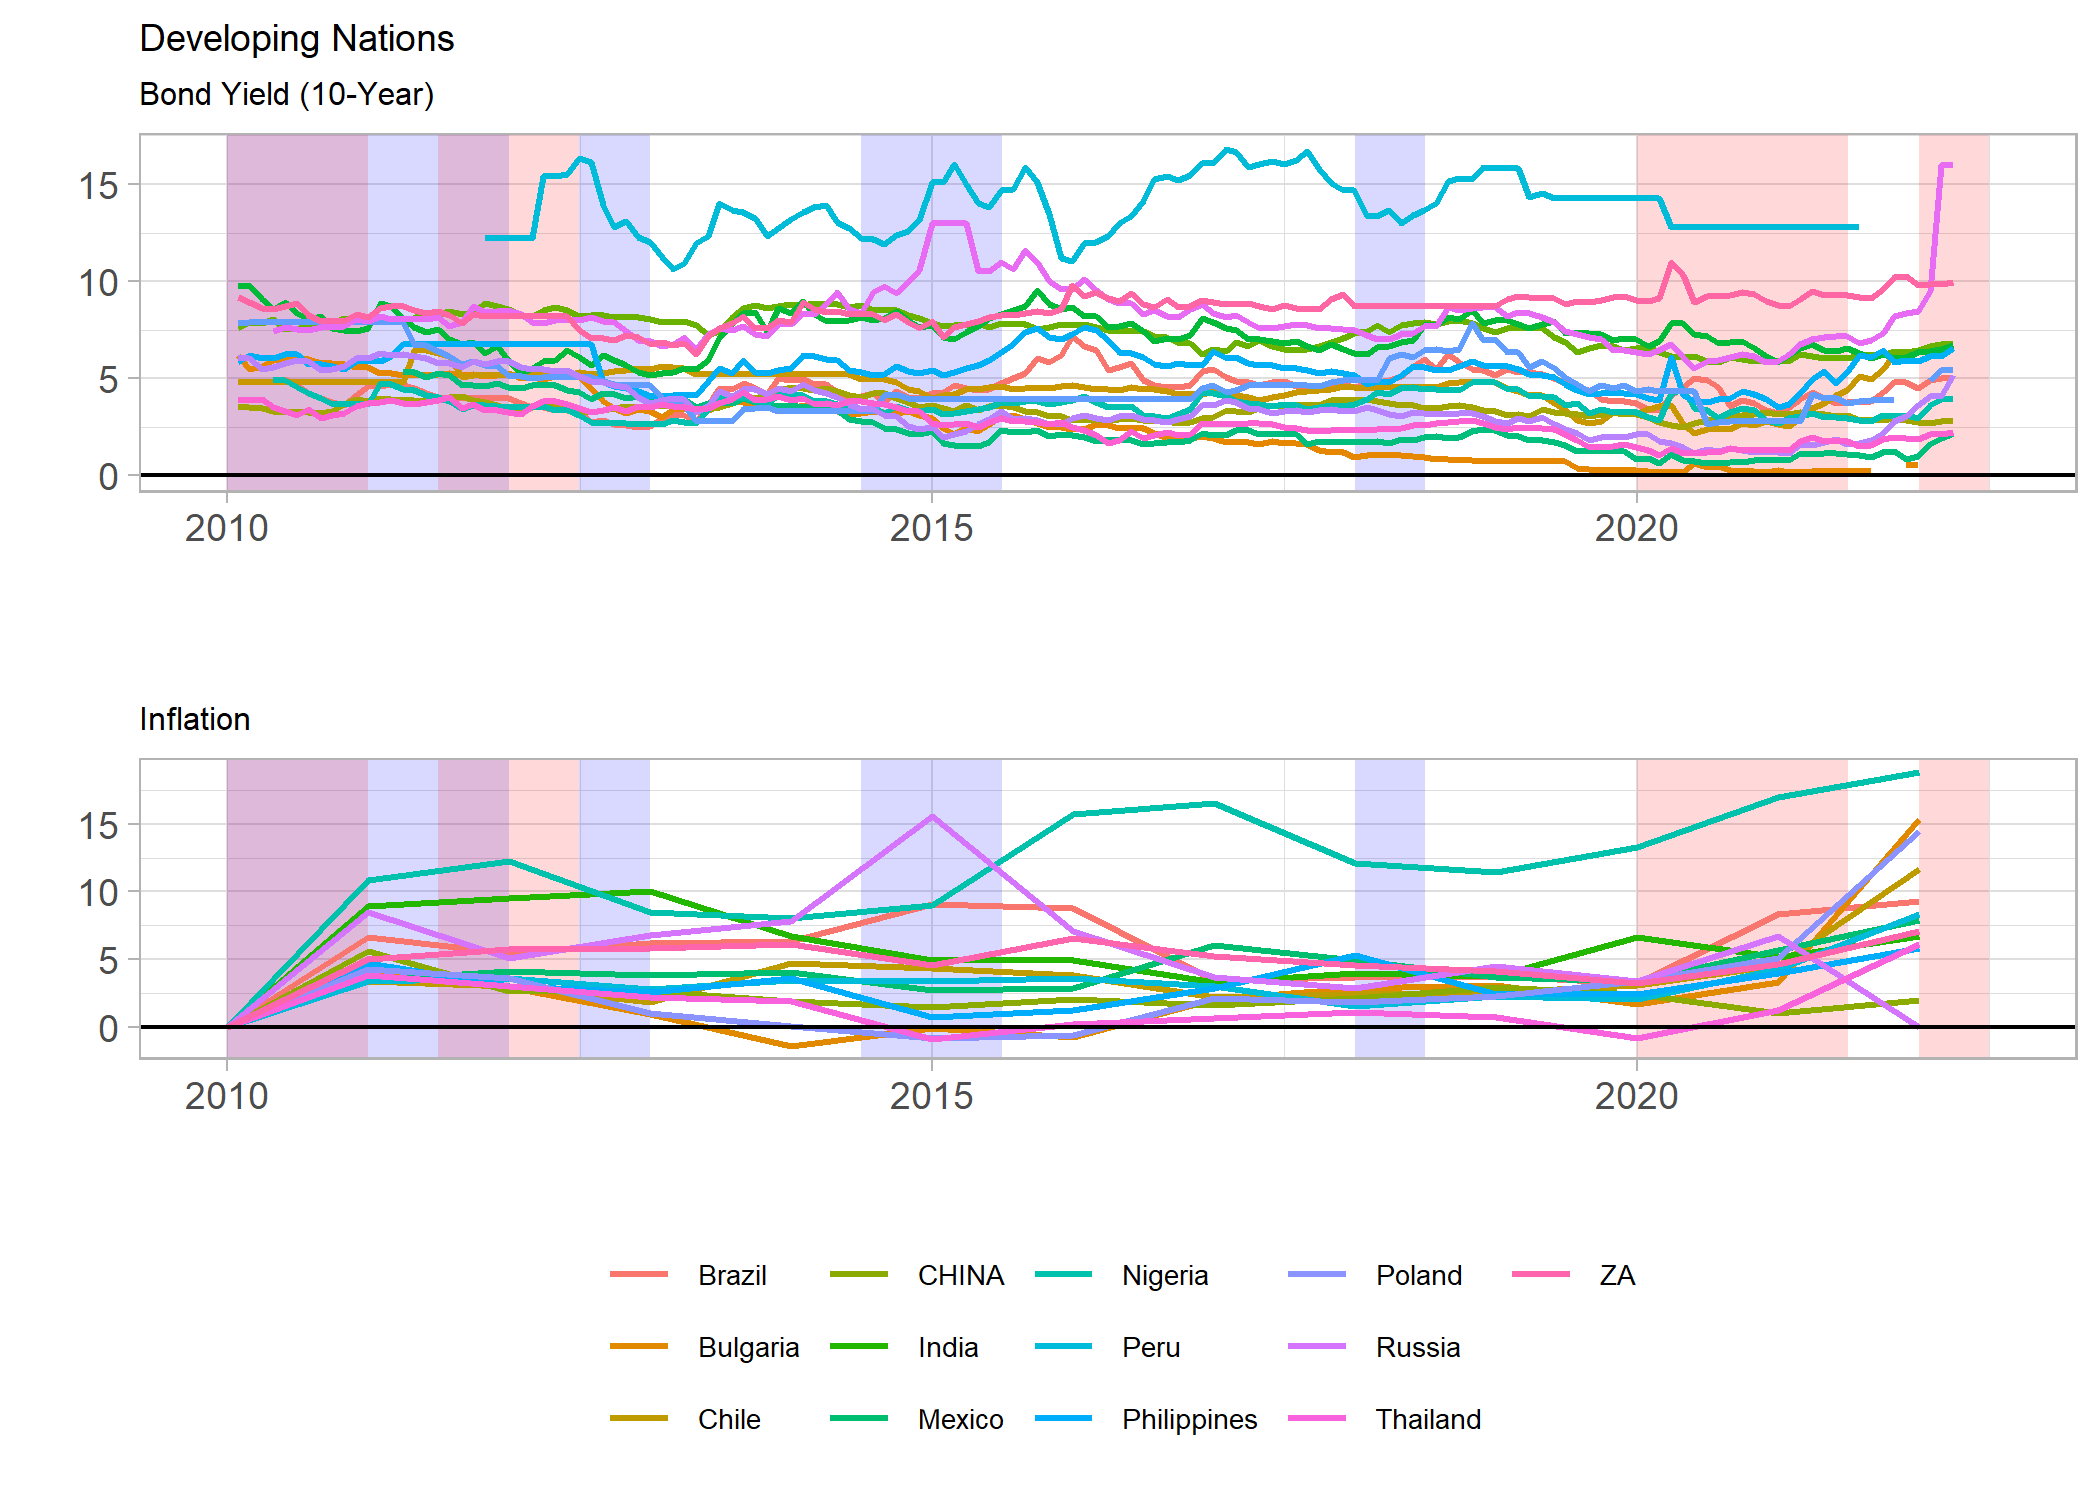
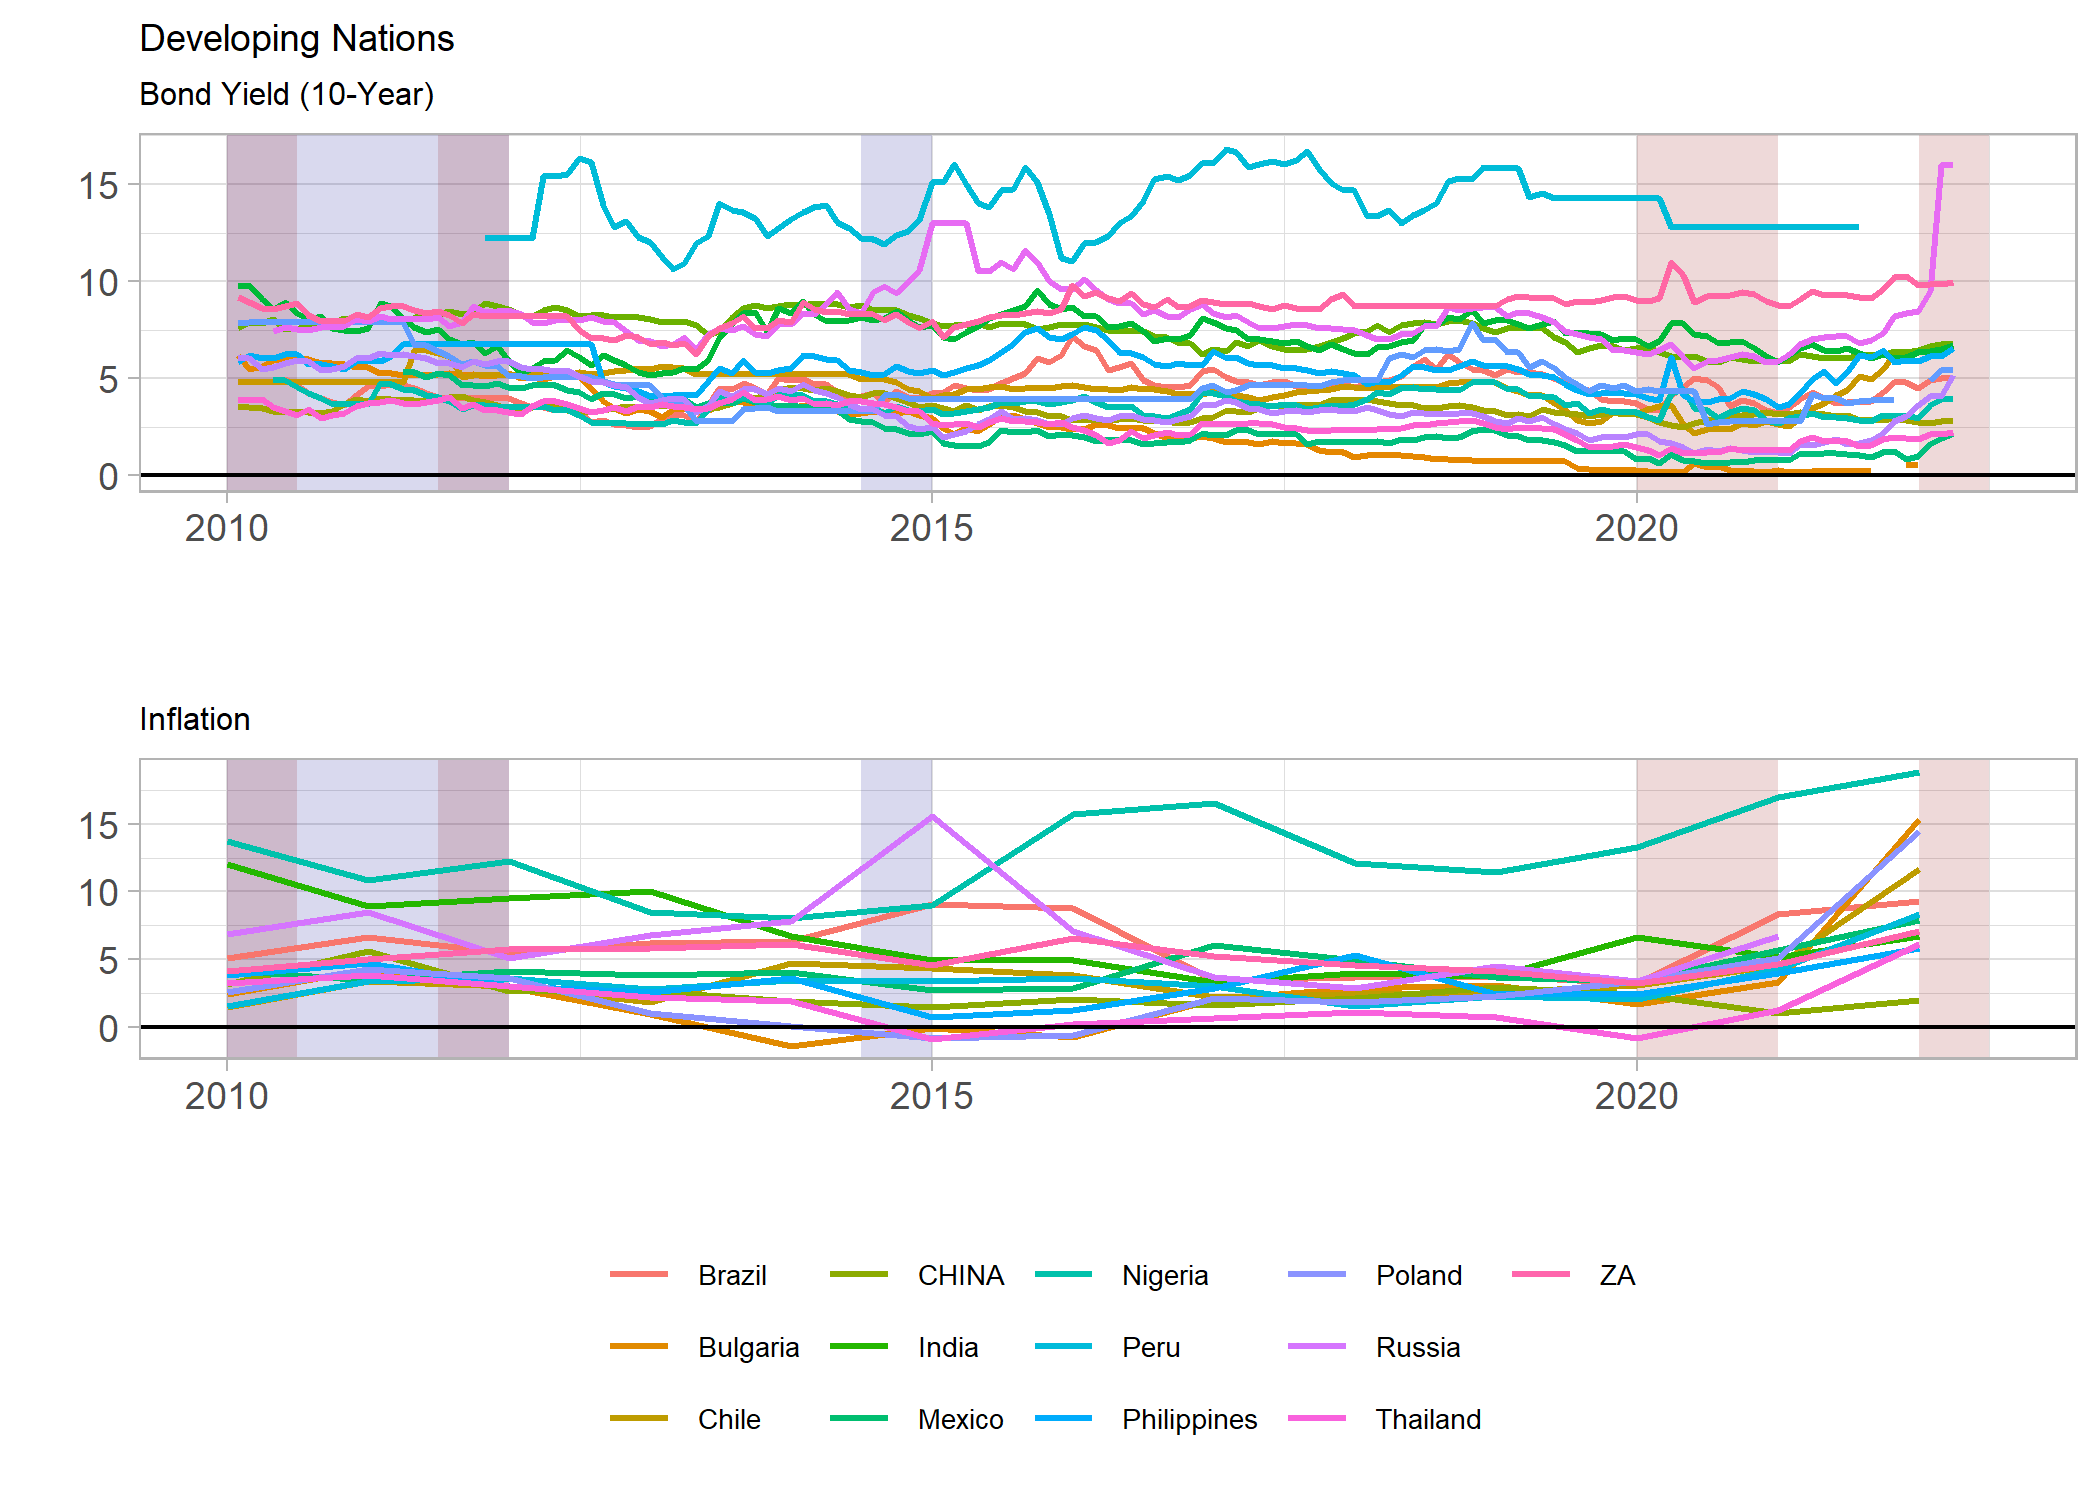
Push with spreads plotted.

diff --git a/README.md b/README.md
@@ -267,47 +267,49 @@ Developing_vec <-
 
 ## Non-perscribed Data
 
-Below I download CPI data from the World Bank. This is so that I am able
-to either use CPI or inflation measures from a reputable source to
-contextualized bond yields. Inflation is one of the only true economic
-risks that can face a bond - in normal times - and as such I think it is
-worth including in the analysis. I have also downloaded VIX and US-EU
-exchange rate data from FRED.
+Below I download CPI and GDP Growth data from the World Bank. This is so
+that I am able to either use CPI, inflation, or GDP measures from a
+reputable source to contextualize bond yields. Inflation is one of the
+only pure economic risks that can face a bond - in normal times - and as
+such I think it is worth including in the analysis. I created a function
+to import the data from the World Bank as it is always in the same,
+messy and unclean format. So World_Bank_foo() gets it into the format I
+want. This was useful as I downloaded many data sets.
 
-With this VIX and US exchange rate data, I will not really be plotting
-them in a traditional way. They will be used to extract high volatility
-times so that I can add them to the line graphs as geom_rect() objects
-so as to be a contextual backdrop for the inflation and yield movements
-we observe. This will aid the discussion.
+I have also downloaded VIX and US-EU exchange rate data from FRED. With
+this VIX and US exchange rate data, I will not really be plotting them
+in a traditional way. They will be used to extract high volatility times
+so that I can add them to the line graphs as geom_rect() objects so as
+to be a contextual backdrop for the inflation and yield movements we
+observe. This will aid the discussion.
 
 ``` r
+# Search vector
+
+All_Names <- unique(Bonds2yr$Name)
+
+###
+
+source("code/World_Bank_foo.R")
+
+# World Bank growth rates: 
+
+Growth_Rates <- 
+    
+    World_Bank_foo(read.csv("data/GDP Growth.csv"), # import data
+                   
+                   All_Names, # only these countries 
+                   
+                   Growth) # what to name gathered column
+
+
 # world bank CPI measure, I have only downloaded since 2010. 
 
-CPI <- read.csv("data/Inflation Data.csv") %>%
+CPI <- 
     
-  `colnames<-`(sub("^X", "", colnames(.))) %>% # Excel problem
+  World_Bank_foo(read.csv("data/Inflation Data.csv"), All_Names, CPI) %>% 
     
-  mutate(Name = ifelse(Name == "China", "CHINA",
-                       
-                ifelse(Name == "New Zealand", "NZ",
-                              
-                ifelse(Name == "United Kingdom", "UK", 
-                                     
-                ifelse(Name == "United States", "US",
-                       
-                ifelse(Name == "Russian Federation", "Russia",
-                       
-                ifelse(Name == "Venezuela, RB", "Venezuela",
-                                            
-                ifelse(Name == "South Africa", "ZA", Name)
-                
-                ))))))) %>%
-    
-  filter(Name %in% Bonds2yr$Name) %>% # select same countries
-    
-  gather(date, CPI, -Name) %>%
-    
-  mutate(date = as.Date(paste0(date, "-01-01"))) %>% 
+    # I also create an inflation column: 
     
   arrange(Name, date) %>%
     
@@ -315,11 +317,13 @@ CPI <- read.csv("data/Inflation Data.csv") %>%
     
   mutate(Inflation = (CPI - lag(CPI)) / lag(CPI) * 100) %>% # inflation
     
-  replace_na(list(Inflation = 0)) %>% # first date is zero inflation 
+  filter(date > "2009-01-01") %>% # first date is zero inflation 
     
   mutate(CPI = (CPI - 100)) %>% 
     
   ungroup()
+
+###
 ```
 
 ``` r
@@ -345,9 +349,9 @@ US_Exchange <- read.csv("data/US to EU Exchange.csv") %>%
 
 source("code/High_Vol_foo.R")
 
-VIX_Vol <- High_Vol_foo(VIX_Data, VIX, 0.67, type = "")
+VIX_Vol <- High_Vol_foo(VIX_Data, VIX, 0.8, type = "")
 
-US_Vol <- High_Vol_foo(US_Exchange, Rate, 0.67, type = "sd")
+US_Vol <- High_Vol_foo(US_Exchange, Rate, 0.8, type = "sd")
 
 # These high volatility periods are used to construct the geom_rects to indicate them on the ggplot graphs.
 
@@ -468,7 +472,15 @@ rm(
     list = c("HV1", "HV2", "HV3", "HV4", "HV5", "HV6", "HV7", "HV8")
     
     )
+```
 
+    ## Warning in rm(list = c("HV1", "HV2", "HV3", "HV4", "HV5", "HV6", "HV7", :
+    ## object 'HV3' not found
+
+    ## Warning in rm(list = c("HV1", "HV2", "HV3", "HV4", "HV5", "HV6", "HV7", :
+    ## object 'HV4' not found
+
+``` r
 rm(
     
     list = c("VIX_Data", "US_Exchange", "US_Vol", "VIX_Vol")
@@ -529,6 +541,7 @@ source("code/Map_Data_foo.R")
 
 M1 <- Map_Data_foo(Bonds2yr, BondYield_2)
 M2 <- Map_Data_foo(CPI, Inflation)
+M3 <- Map_Data_foo(Growth_Rates, Growth)
 ```
 
 Once the data is in the correct format, plotting simply requires ggplot.
@@ -558,5 +571,75 @@ ncol = 1)
 <img src="README_files/figure-markdown_github/unnamed-chunk-15-1.png" width="100%" height="100%" />
 
 ``` r
-# I print both in a hidden chunk in order to maintain neatness. 
+create_map(M3, "Average GDP Growth", "none")
 ```
+
+<img src="README_files/figure-markdown_github/unnamed-chunk-16-1.png" width="100%" height="100%" />
+
+``` r
+rm(list = c("M1", "M2", "M3"))
+```
+
+# Yield Spreads
+
+In order to plot the yield spreads (to answer the main question), I
+created Spread_Plotter(). It is a function that takes a data set,
+subtracts the US yield from the yield of all other countries on all
+dates, and then plots the resulting spread with a horizontal line at
+zero to indicate the US-zero level.
+
+``` r
+source("code/Spread_Plotter.R")
+
+###
+
+grid.arrange(
+
+   Spread_Plotter(Bonds2yr, 
+                  BondYield_2, 
+                  Dev_Count, 
+                  "BondYield_2", 
+                  "Developed Countries", 
+                  "2-Year", 
+                  "none"), 
+
+   Spread_Plotter(Bonds10yr, 
+                  BondYield_10, 
+                  Dev_Count, 
+                  "BondYield_10", 
+                  "", 
+                  "10-Year", 
+                  "bottom"),
+
+   ncol = 1,
+
+   heights = c(1.5,2))
+```
+
+<img src="README_files/figure-markdown_github/unnamed-chunk-18-1.png" width="100%" height="100%" />
+
+``` r
+grid.arrange(
+
+   Spread_Plotter(Bonds2yr, 
+                  BondYield_2, 
+                  BRICS, 
+                  "BondYield_2",
+                  "BRICS", 
+                  "2-Year", 
+                  "none"), 
+
+   Spread_Plotter(Bonds10yr, 
+                  BondYield_10, 
+                  BRICS, 
+                  "BondYield_10", 
+                  "", 
+                  "10-Year", 
+                  "bottom"),
+
+   ncol = 1,
+
+   heights = c(1.5,2))
+```
+
+<img src="README_files/figure-markdown_github/unnamed-chunk-19-1.png" width="100%" height="100%" />
